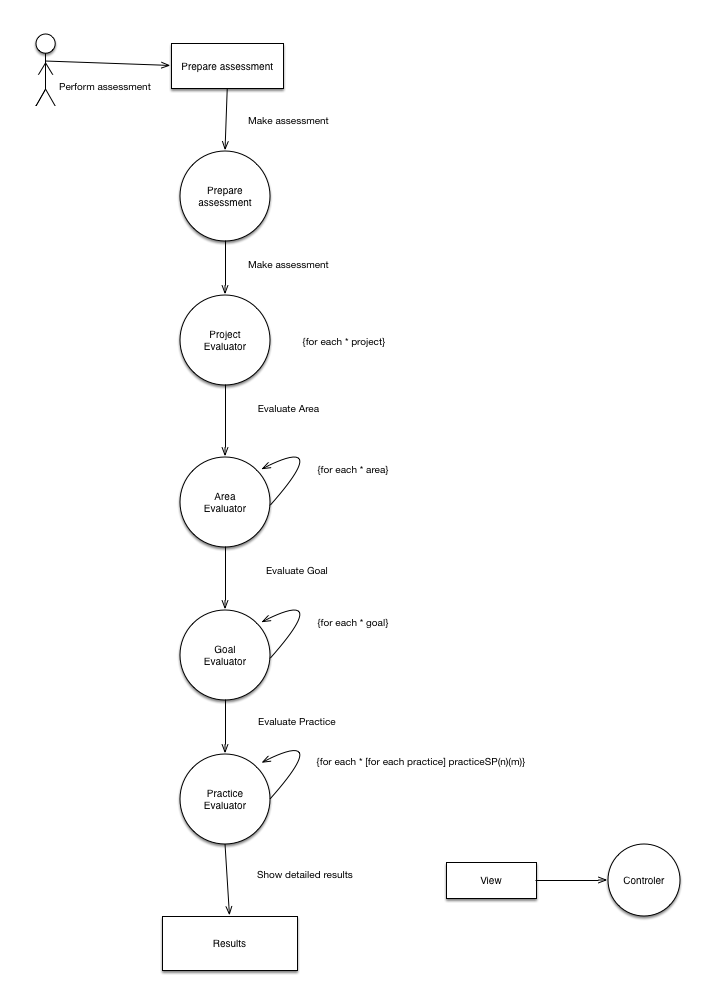
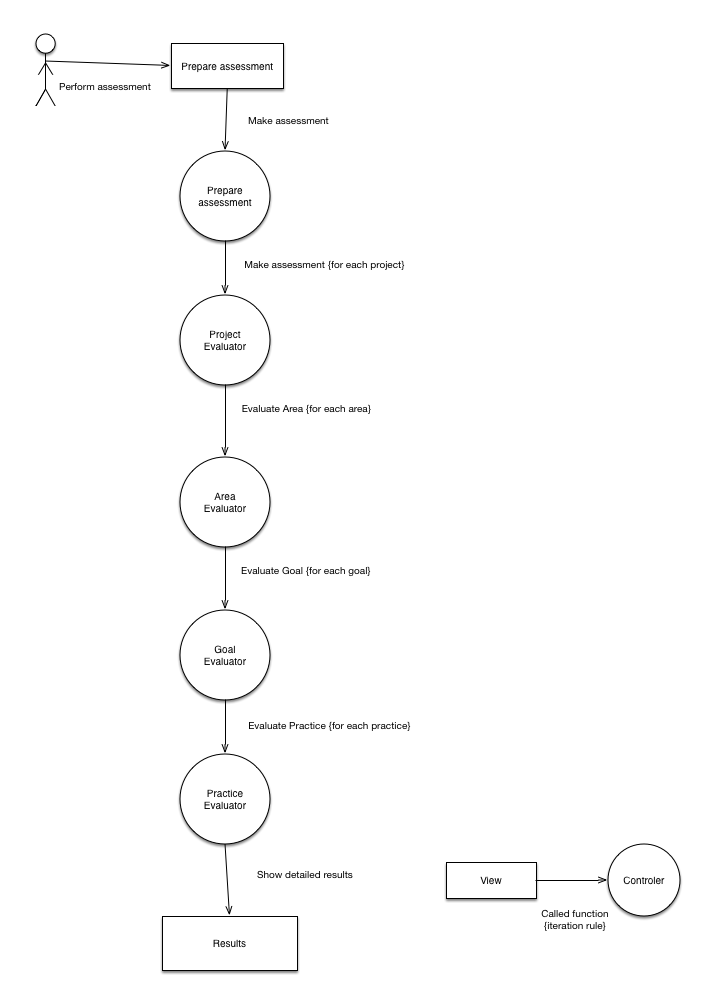
Ultimas correcções

diff --git a/mieic-distrib-final/usageandex.tex b/mieic-distrib-final/usageandex.tex
@@ -9,7 +9,7 @@ In this chapter it is presented an usage example of the created prototype. It is
 
 To demonstrate the prototype it is presented in this section an usage example.
 
-As said before all the prototype was implemented inside Scraim, so its usage is restricted to users that have Scraim account with this module enabled.
+As said before all the prototype was implemented inside Scraim, so its usage is restricted to users that have a Scraim account with this module enabled.
 
 \vspace{10 mm}
 
@@ -57,10 +57,6 @@ Only the text field can be empty; it is mandatory to choose at least one project
 
 \vspace{10 mm}
 \newpage
-\textbf{Survey}
-
-The Survey is the Screen where it is needed to answer all the questions, none can be skipped and only after that we can have a full assessment done and a proper result, this survey is not yet implemented, only the questions are selected.
-
 \begin{figure}[!htb]
 	\begin{center}
 		\leavevmode
@@ -69,6 +65,10 @@ The Survey is the Screen where it is needed to answer all the questions, none ca
 		\label{fig:goto_survey}
 	\end{center}
 \end{figure}
+
+\textbf{Survey}
+
+The Survey is the Screen where it is needed to answer all the questions; none can be skipped and only after that we can have a full assessment done and a proper result: This survey is not yet implemented, only the questions are selected.
 
 \vspace{10 mm}
 
@@ -98,7 +98,7 @@ When a certain process area is clicked inside the graph, like for example PP (wh
 	\end{center}
 \end{figure}
 
-It is possible to see more in detail the assessment result if the mouse cursor is over the bar that corresponds to a practice. When that bar is clicked on, it is shown in the page more information about that practice. Figure \ref{fig:practice_click}, shows us the information appended to the page when the Practice 1.1 of the first goal of Project Planning area is clicked.
+It is possible to see more in detail the assessment result if the mouse cursor is over the bar that corresponds to a practice. When that bar is clicked, it is shown in the page more information about that practice. Figure \ref{fig:practice_click}, shows the information appended to the page when the Practice 1.1 of the first goal of Project Planning area is clicked.
 
 \begin{figure}[!htb]
 	\begin{center}
@@ -111,15 +111,15 @@ It is possible to see more in detail the assessment result if the mouse cursor i
 
 After all this process, all views allow the user to return to the Home screen, that contains the list of the assessments done. The assessment that we have done and we are seeing is already present in the list of assessments.
  
-\section{Comparison between Automatic and Manual assessment} \label{sec:automatic}
+\section{Comparison between automatic and manual assessment} \label{sec:automatic}
 %	Avaliação manual vs automatica trocar titulo
 
-To determine if the electronic assessment generates results close to a manual assessment performed by an expert it is necessary to compare an automatic assessment (tool) to a manual assessment (human).
+To determine if the electronic assessment generates results close to a manual assessment performed by an expert it is necessary to compare an automatic assessment (performed by the tool) to a manual assessment (performed by a human expert).
 
 For that purpose it was chosen a project that was already finished and instantiated in SCRAIM.
 In both assessments only the two areas featured in the current implementation of this module are considered for comparison.
-
-\vspace{1cm}
+\clearpage
+\newpage
 
 \textbf{Manual Assessment}
 
@@ -141,7 +141,8 @@ In the third goal only the last practice is partially implemented the others are
 For the area Project Monitoring and Control in the first goal the first and forth practices are classified as not implemented and the others as partially implemented. In the second goal all practices are not implemented.
 
 \vspace{1cm}
-
+\clearpage
+\newpage
 \textbf{Automatic Assessment}
 
 The results of the automatic assessment performed by the developed module can be seen in Figure \ref{fig:automatic_assessment}.
@@ -171,7 +172,7 @@ For the PP area, the practices results are shown in Figure \ref{fig:results_pp}.
 Using for method of approximation the scale presented in Section \ref{sec:mapping} and comparing the automatic results with the manual assessment shown before one can conclude that in most cases the mapping of the tool matched the manual assessment. In some cases like  the SP.2.2 the risks of the project weren't recorded on SCRAIM but in a document attached to the project.
 
 
-Results for the PMC area are represented in Figure \ref{fig:results_pmc}. Using the same method that used before and comparing the two results, none practice stands out from the results, so the results are close to a real assessment.
+Results for the PMC area are represented in Figure \ref{fig:results_pmc}. Using the same method that was used before and comparing the two results, none practice stands out from the results, so the results are close to a real assessment.
 
 \begin{figure}[H]
 	\begin{center}
@@ -221,20 +222,20 @@ In Table \ref{tab:automaticmanual} is presented side by side the results obtaine
 	\label{tab:automaticmanual}
 \end{table}
 
-There is no case in no case in which the rating have opposite values (not fully and fully implemented). In 79 \% of the cases they are identical or differ by at most 1.
+There is no case in which the ratings have opposite values (not fully and fully implemented). In 79 \% of the cases they are identical or differ by at most 1.
 
-In 42 \% of the cases (practices) the ratings are identical. This statistics can be seen in Figure \ref{fig:errorresults}.
+In 42 \% of the cases (practices) the ratings are identical. These statistics can be seen in Figure \ref{fig:errorresults}.
 
 \begin{figure}[H]
 	\begin{center}
 		\leavevmode
 		\includegraphics[width=0.9\textwidth]{delta}
-		\caption{Electronic assessment average error}
+		\caption{Distribution of electronic assessment errors}
 		\label{fig:errorresults}
 	\end{center}
 \end{figure}
 
-It is possible to see that the electronic automatic ratings that differ 2 from the manual assessment are still 21\%. The explanation for the difference is that actually it is impossible to check the content of documents submitted to SCRAIM, in some cases just for using SCRAIM is automatically considered the last level or some practices are evaluated in only two levels, the maximum level (4)  or the minimum level (1) . For example the practice PP.SP1.1 is rated differently because in the automatic assessment is only seen if WBS are defined and epics are associated with backlog items, but in the manual assessment it is seen the preliminary report submitted on SCRAIM that contains some evidences for this practice not possible to evaluate yet automatically.
+It is possible to see that the electronic automatic ratings that differ by 2 from the manual assessment are still 21\%. The explanation for the difference is that actually it is impossible to check the content of documents submitted to SCRAIM; in some cases just for using SCRAIM it is automatically considered the last level or some practices are evaluated in only two levels, the maximum level (4)  or the minimum level (1) . For example the practice PP.SP1.1 is rated differently because in the automatic assessment is only seen if WBS are defined and epics are associated with backlog items, but in the manual assessment it is seen the preliminary report submitted on SCRAIM that contains some evidences for this practice not possible to evaluate yet automatically.
 
 %
 %\begin{table}[]

diff --git a/mieic-distrib-final/abstract.tex b/mieic-distrib-final/abstract.tex
@@ -1,21 +1,3 @@
-\chapter*{Resumo}
-Com o efeito da globalização, assistimos a uma mudança no paradigma dos mercados atuais, mudança essa que forçou as organizações a melhorar os seus processos de modo a manter a sua competitividade e deste modo garantir uma posição favorável no mercado. Para que tal aconteça, é necessário que comecem a simplificar e a perder menos tempo nos processos, pois só assim é possível à organização focar-se no que realmente interessa: a criação de valor.
-
-As certificações são um reconhecimento formal de uma organização que fornecem orientação e ferramentas, no sentido de garantir que os produtos e serviços vão de encontro às necessidades e requisitos dos clientes e a sua qualidade é constantemente melhorada. Apesar de serem úteis para a organização, as certificações exigem um esforço muito elevado e consomem muito tempo. Por exemplo, o método SCAMPI exige um esforço elevado, sendo por vezes muito doloroso e custoso monetariamente para a organização.
-O método SCAMPI é o método standard de avaliação para a melhoria de processos, associado ao modelo CMMI que é um modelo para as organizações melhorarem os seus processos e é exigido por muitos contratos do governo dos EUA, especialmente no âmbito do desenvolvimento de software. SCRAIM é a ferramenta que vai fornecer meios para simplificar esse tipo de avaliações, com o objetivo de economizar tempo e consequentemente dinheiro.
-
-O objetivo principal do presente trabalho de dissertação é desenvolver de metodologias, técnicas e ferramentas, integradas no SCRAIM, que irão tornar as avaliações e certas partes das certificações mais fáceis e menos extenuantes para os utilizadores do SCRAIM.
-Embora haja um número elevado de ferramentas que permitem gerir os projetos e o ciclo de vida deles, poucas combinam isso com técnicas de gestão de processos. O SCRAIM combina os dois e irá fornecer funcionalidades que irão permitir semi-automatizar a avaliação para a certificação de uma organização. O processo totalmente automatizado ainda não é viável, pois a intervenção humana ainda é obrigatória.
-
-Após uma avaliação inicial do nível de suporte do SCRAIM em relação às práticas do CMMI, foi decidido focar a avaliação automática no nível 2 de maturidade, para o qual foram definidas regras de avaliação e implementado um protótipo, este, testado e validado com um projecto do mundo real.
-
-Resultados experimentais mostram que as regras forneceram resultados precisos (com um erro máximo de 1 ponto) para 79\% das práticas avaliadas.
-
-Podemos ver muitas vantagens da criação e desenvolvimento desta inovação e acreditamos que a sua aplicação ajudará a reduzir os custos e o tempo de uma avaliação utilizando o método SCAMPI.
-
-
-
-
 \chapter*{Abstract}
 
 Due to the change of the paradigm of current markets, resulting from the phenomenon of globalization, organizations are forced to streamline their business, in order to be able to maintain their competitiveness and ensure a favorable market position. To achieve such agility, their processes need to be less time consuming and more effortless, so they can focus on what really matters: value creation.
@@ -27,8 +9,24 @@ The main goal of this dissertation is to develop methodologies, techniques and t
 
 Although there are a number of life cycle and project management tools, few combine this with process management techniques. SCRAIM combines the two and will provide the users new features that will semiautomate the assessment for certification of an organization. The full automated process is not yet feasible, so human intervention is still mandatory. 
 
-After an initial assessment of the the level of support of SCRAIM regarding CMMI practices, it was decided to focus the electronic assessment on maturity level 2, for which assessment rules were defined, implemented a prototype and validated on a real world project.
+After an initial assessment of the the level of support of SCRAIM regarding CMMI practices, it was decided to focus the electronic assessment on maturity level 2, for which assessment rules were defined, and a prototype was implemented and validated on a real world project.
 
 Experimental results show that the rules provided accurate results (with a maximum error of 1 point) for 79\% of the practices evaluated.
 
 We can see many advantages of this innovation, and we believe that the application of this innovation will help reduce the costs and time of an evaluation using the SCAMPI method.
+
+
+\chapter*{Resumo}
+Com o efeito da globalização, assistimos a uma mudança no paradigma dos mercados atuais, mudança essa que forçou as organizações a melhorar os seus processos de modo a manter a sua competitividade e deste modo garantir uma posição favorável no mercado. Para que tal aconteça, é necessário que comecem a simplificar e a perder menos tempo nos processos, pois só assim é possível à organização focar-se no que realmente interessa: a criação de valor.
+
+As certificações são um reconhecimento formal de uma organização que fornecem orientação e ferramentas, no sentido de garantir que os produtos e serviços vão de encontro às necessidades e requisitos dos clientes e a sua qualidade é constantemente melhorada. Apesar de serem úteis para a organização, as certificações exigem um esforço muito elevado e consomem muito tempo. Por exemplo, o método SCAMPI exige um esforço elevado, sendo por vezes muito doloroso e custoso monetariamente para a organização.
+O método SCAMPI é o método standard de avaliação para a melhoria de processos, associado ao modelo CMMI que é um modelo para as organizações melhorarem os seus processos e é exigido por muitos contratos do governo dos EUA, especialmente no âmbito do desenvolvimento de software. SCRAIM é a ferramenta que vai fornecer meios para simplificar esse tipo de avaliações, com o objetivo de economizar tempo e consequentemente dinheiro.
+
+O objetivo principal do presente trabalho de dissertação é desenvolver de metodologias, técnicas e ferramentas, integradas no SCRAIM, que irão tornar as avaliações e certas partes das certificações mais fáceis e menos extenuantes para os utilizadores do SCRAIM.
+Embora haja um número elevado de ferramentas que permitem gerir os projetos e o ciclo de vida deles, poucas combinam isso com técnicas de gestão de processos. O SCRAIM combina os dois e irá fornecer funcionalidades que irão permitir semi-automatizar a avaliação para a certificação de uma organização. O processo totalmente automatizado ainda não é viável, pois a intervenção humana ainda é obrigatória.
+
+Após uma avaliação inicial do nível de suporte do SCRAIM em relação às práticas do CMMI, foi decidido focar a avaliação automática no nível 2 de maturidade, para o qual foram definidas regras de avaliação e implementado um protótipo, que foi testado e validado com um projecto do mundo real.
+
+Resultados experimentais mostram que as regras forneceram resultados precisos (com um erro máximo de 1 ponto) para 79\% das práticas avaliadas.
+
+Podemos ver muitas vantagens da criação e desenvolvimento desta inovação e acreditamos que a sua aplicação ajudará a reduzir os custos e o tempo de uma avaliação utilizando o método SCAMPI.

diff --git a/mieic-distrib-final/Conception.tex b/mieic-distrib-final/Conception.tex
@@ -93,7 +93,7 @@ In the first attempt, was tried to match those levels with 5 levels, correspondi
 	\end{center}
 \end{figure}
 
-After some mapping this scale was confusing and far from real so the best way was to map and try match the four levels of SCAMPI with four levels of Scraim assessment.
+After some mapping this scale was confusing and far from real so the best way was to map and try to match the four levels of SCAMPI with four levels of Scraim assessment.
 
 This new scale is more accurate and closer to a real assessment as shown in Table \ref{tab:rules}. In Figure \ref{fig:mapping_4levels} is observable that the mid levels are more easily distinguished and more differentiable from the others.
 
@@ -116,10 +116,12 @@ This new scale is more accurate and closer to a real assessment as shown in Tabl
 	\label{tab:rules}
 \end{table}
 
-In the tables presented below are explained the Rules established for the automatic assessment.
+In the tables presented below are explained the Rules established for the automatic assessment. The rules were validated with consultants from Strongstep.
 
 When in the tables are shown 2 levels (Yes or No), represents the Maximum and the Minimum of the scale considered, Yes corresponds to the level 4 and No the level 1.
-The practices that need to be evaluated with the survey, in the automatic evaluation is assessed with the result of 1, the minimum.
+The practices that need to be evaluated with the survey, in the automatic evaluation are assessed with the result of 1, the minimum.
+
+The practices that currently cannot be evaluated automatically, are assigned the result of 1 (Not Implemented) during the automatic assessment. They should be subsequently reevaluated with the survey.
 
 
 \newpage
@@ -149,6 +151,9 @@ Regarding the mapping, it was discovered  that some practices can not be automat
 
 The founded way is to make a survey based on pre-established questions. Those questions were derived from the "CMMI assessment checklist" (see Section \ref{cmmicheck}) and  the "ITMARK Appraisal tool" (see Section \ref{itmarktool}). One question example is presented in Figure \ref{fig:question_example}.
 
+
+The survey has on average 4 questions per practice of CMMI level 2 (covering all practices). The survey is not included in this documents because of its extension (40 pages).
+
 \begin{figure}[!htb]
 	\begin{center}
 		\leavevmode
@@ -170,9 +175,9 @@ Some of the gaps found in Section \ref{sec:mapping} can be solved with the integ
 	
 	\item Plugin for Document Management System Features \citep{DMSF}
 	
-	Allows to manage documents submitted on Scraim, document approval workflow to be configurable and maintain a version control of this documents.
+	Allows to manage documents submitted on Scraim, document approval workflow to be configurable, and maintain a version control of this documents.
 	
-	\item Certain names for submitted documents
+	\item Naming conventions
 	
 	For example the Project plan must be submitted with a certain name to the Scraim files, to be automatically evaluated or it will not be considered.
 	

diff --git a/mieic-distrib-final/Conclusion.tex b/mieic-distrib-final/Conclusion.tex
@@ -9,9 +9,9 @@ All the goals established in the start of this thesis were almost completely ful
 
 The greatest difficulty in this thesis was to understand and be able to apply the concepts and methodologies behind the CMMI in order to be able to map its practices to SCRAIM. This was due to the fact that my knowledge about CMMI was very limited. To overcome this limitation it was necessary a very intensive research and extensive study in this area, which led me to acquire interest for Software Engineering. The result of this research is presented in Chapter \ref{chap:problem}.
 
-One of the objectives of this thesis was to understand the level of support of SCRAIM in the CMMI scenario; this is researched and presented in the Chapter \ref{chap:conception}, where it is made an assessment of tool using with another tool that is currently used by appraisers. In the same chapter, it is shown the results of that assessment and from that we can conclude that SCRAIM is not yet ready to support a high level of maturity.
+One of the objectives of this thesis was to understand the level of support of SCRAIM in the CMMI scenario; this is researched and presented in the Chapter \ref{chap:conception}, where it is made an assessment of SCRAIM with the help of another tool that is currently used by appraisers. In the same chapter, it is shown the results of that assessment and from that we can conclude that SCRAIM is not yet ready to support a high level of maturity, but supports adequately the level 2.
 
-Despite the high level of coverage of SCRAIM on CMMI practices, a fully automatic electronic assessment is not feasible, so to complement it is necessary to take a survey in order to answer some practices needs. 
+Despite the high level of coverage of SCRAIM on CMMI level 2 practices, a fully automatic electronic assessment is not feasible, so to complement it is necessary to take a survey in order to answer some practices needs. 
 
 Chapter \ref{chap:implementation} presented the architecture of the prototype created; that was another point of work, in order to get a flexible and scalable architecture and prototype.
 
@@ -19,7 +19,7 @@ A verification and validation of this work was done by presenting an usage examp
 
 Initially, it was intended to reduce the costs and time of a SCAMPI evaluation and with the comparative analysis made we can say that this approach will make that happen and the prototype when extended and completed with the future work will facilitate the SCAMPI appraisals.
 
-\section{Future Work}\label{futurework}
+\section{Future work}\label{futurework}
 
 The automatic assessment module is a tool that will facilitate the SCAMPI appraisals, but in order to satisfy completely the demands of an appraisal first of all it is necessary to implement all the rules established for all the process areas.
 

diff --git a/mieic-distrib-final/Implementation.tex b/mieic-distrib-final/Implementation.tex
@@ -118,11 +118,9 @@ For each practice the evaluation is different, so the function that is going to 
 
 \vspace{1cm}
 
-Despite the conception and the mapping of all areas from maturity level 2 of CMMI for development, this prototype only contemplates the implementation of two areas.
+Despite the conception and the mapping of all areas from maturity level 2 of CMMI for development, this prototype only contemplates the implementation of two areas: Project Planning and Project Monitoring and Control.
 
-The Implemented areas are: Project Planning and Project Monitoring and Control.
-
-\section{Scalability and Flexibility}
+\section{Scalability and flexibility}
 
 The model represented is fully capable of handling expansions of the database and the practices evaluators, the only thing needed is to follow some steps:
 \begin{itemize}

diff --git a/mieic-distrib-final/chapter2.tex b/mieic-distrib-final/chapter2.tex
@@ -439,7 +439,7 @@ installation as requirement, making software cheaper. Another advantage is that 
 %Citar - SaaS is one of the biggest technology trends to affect business
 %applications in recent years. (documento do SaaS)
 
-\subsection{Methodologies and Processes definition}
+\subsection{Methodologies and processes definition}
 One of the reasons that can lead to a project failure is the lack of use of a defined software development process. It is also known that one of the success factors is the adoption of appropriate development processes in organizations projects.
 
 \begin{figure}[h]

diff --git a/mieic-distrib-final/abbrevs_en.tex b/mieic-distrib-final/abbrevs_en.tex
@@ -37,5 +37,6 @@
 		TS & Technical Solution\\
 		VAL & Validation\\
 		VER & Verification\\
+		WBS &  Work breakdown structure\\
 	\end{tabular}
 \end{flushleft}
